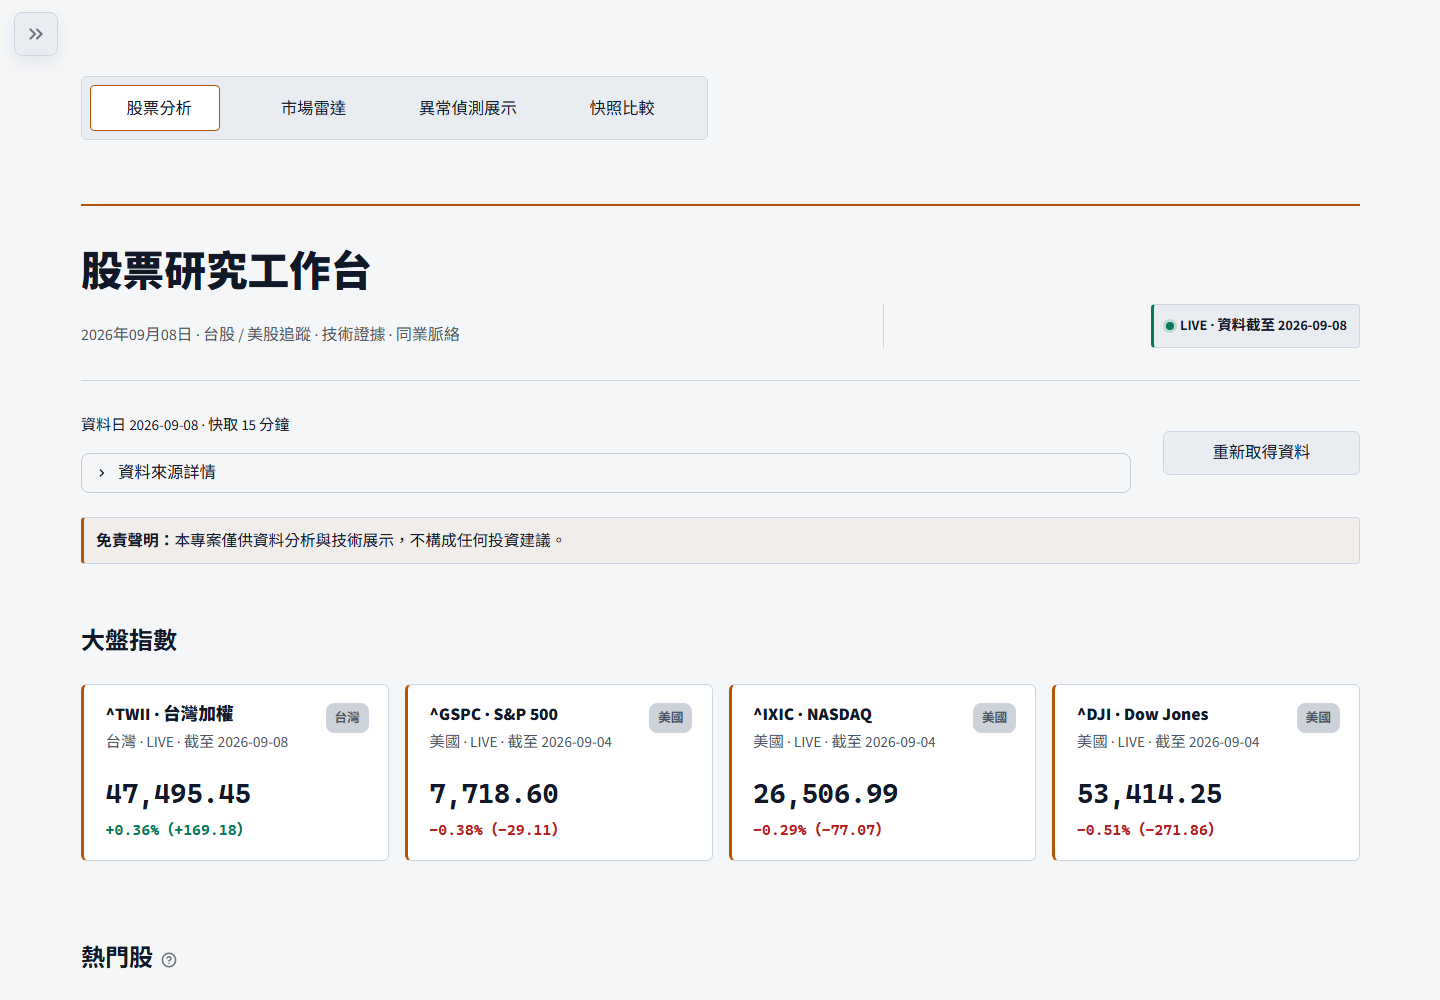
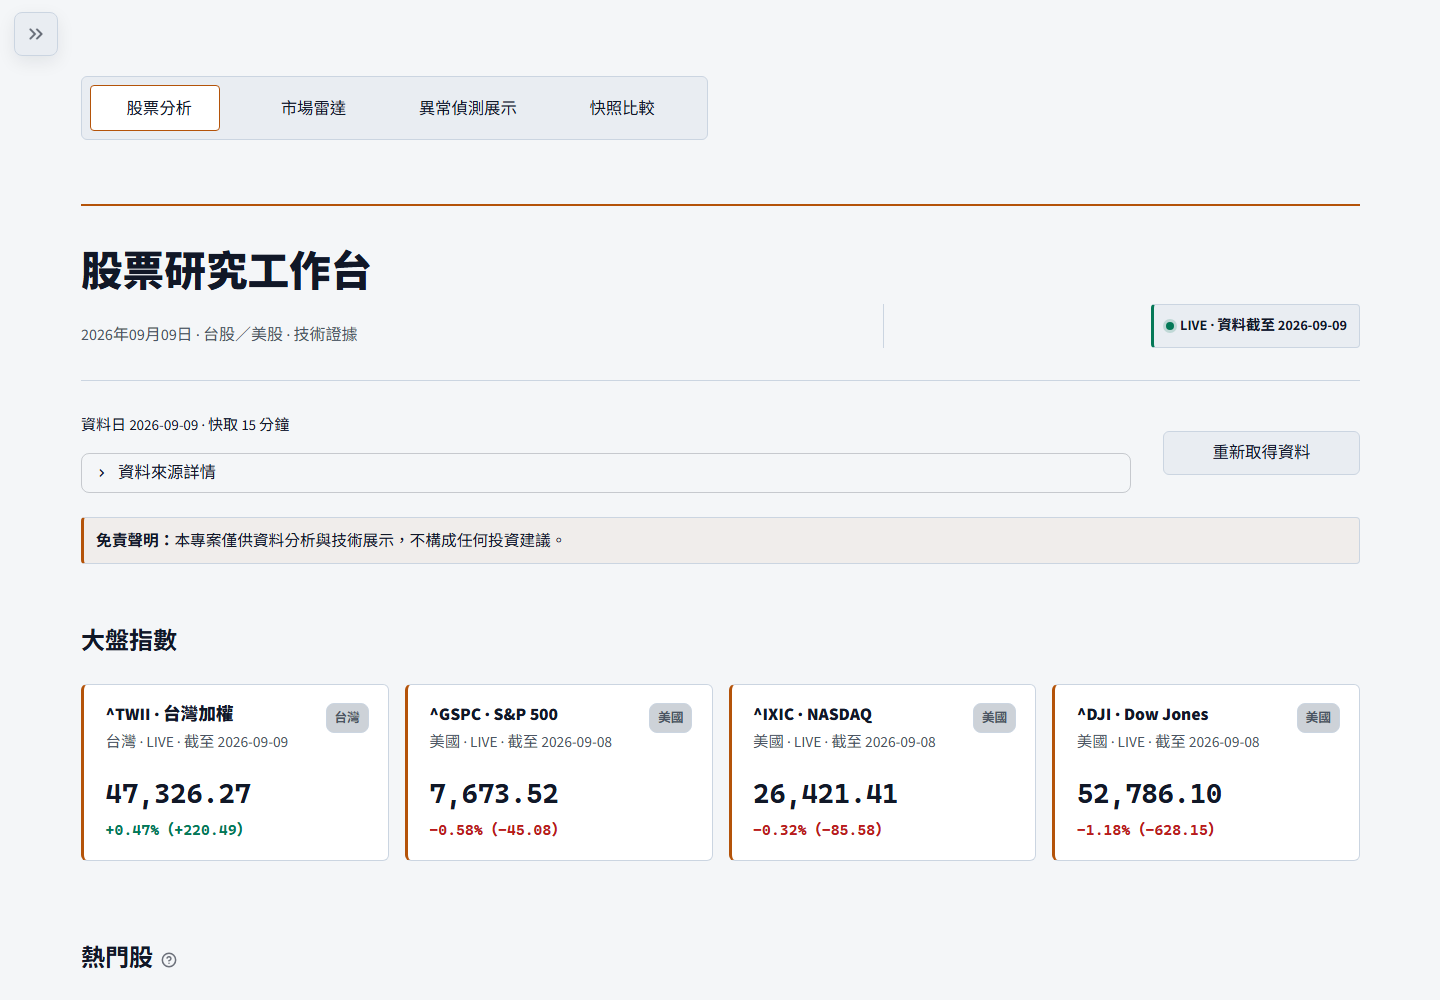
ui: reduce page copy and harden narrow headers

diff --git a/app.py b/app.py
@@ -2502,8 +2502,14 @@ def inject_global_css(theme: dict) -> None:
                 overflow-wrap: anywhere;
             }}
             .dashboard-topline h1 {{
-                max-width: 18ch;
+                max-width: 100%;
+                overflow-wrap: anywhere;
                 text-wrap: balance;
+            }}
+            .dashboard-topline .page-date {{
+                max-width: 100%;
+                overflow-wrap: anywhere;
+                line-height: 1.45;
             }}
             [data-testid="stDataFrame"] {{
                 font-size: .95rem !important;
@@ -3503,7 +3509,7 @@ def render_stock_analysis_page(theme: dict) -> None:
     source_status, source_is_live = build_stock_source_status(company_source, market_cards + popular_cards)
     render_page_header(
         "股票研究工作台",
-        "台股 / 美股追蹤 · 技術證據 · 同業脈絡",
+        "台股／美股 · 技術證據",
         source_status,
         source_is_live,
     )
@@ -3530,7 +3536,7 @@ def render_stock_analysis_page(theme: dict) -> None:
 def render_snapshot_comparison_page(theme: dict) -> None:
     render_page_header(
         "\u7814\u7a76\u5feb\u7167\u6bd4\u8f03",
-        "\u96e2\u7dda\u5dee\u7570\u6aa2\u8996 \u00b7 \u8cc7\u6599\u4f86\u6e90 \u00b7 \u8b49\u64da\u72c0\u614b",
+        "\u96e2\u7dda\u5feb\u7167 · SHA-256",
         "SHA-256 \u5b8c\u6574\u6027\u9a57\u8b49",
         status_live=True,
     )
@@ -3703,7 +3709,7 @@ def render_snapshot_comparison_page(theme: dict) -> None:
 def render_anomaly_page(cfg: dict, theme: dict) -> None:
     render_page_header(
         "異常偵測展示",
-        "資料工程 · 特徵工程 · 異常標記流程",
+        "異常事件 · 研究資料",
         "本機分析資料",
     )
     with st.spinner("正在載入異常偵測資料..."):
